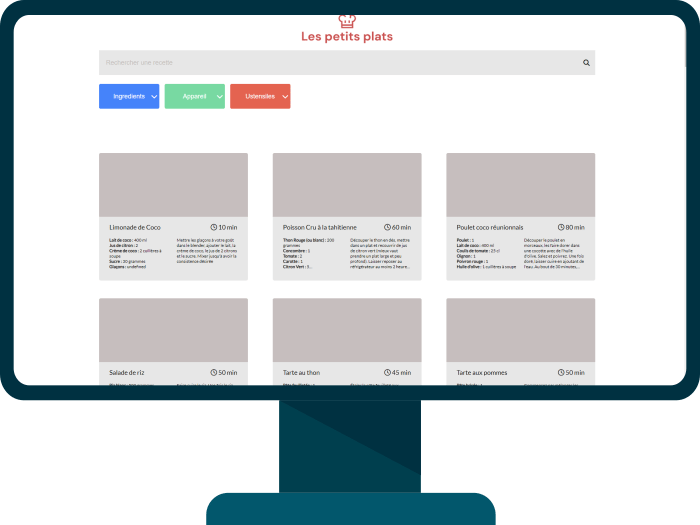
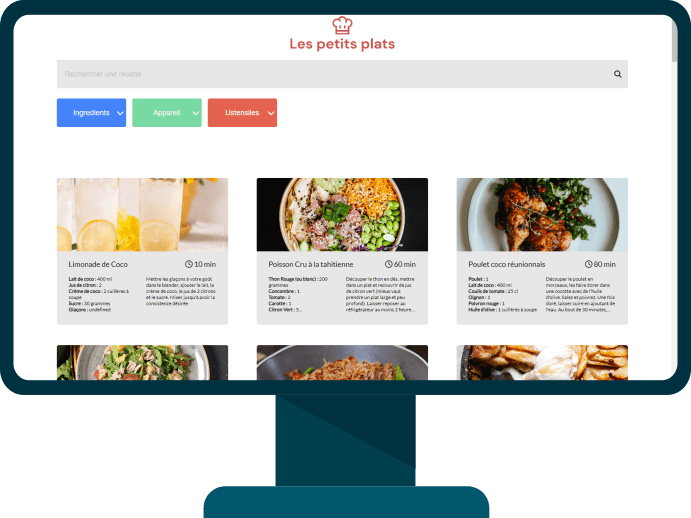
:lipstick: Change p9 and p7 image, non title font

diff --git a/src/pages/Project/Project.tsx b/src/pages/Project/Project.tsx
@@ -39,7 +39,7 @@ export const Project: React.FC = () => {
     return (
         <>
             <Link to="/" className={styles.back}>
-                Retour à l'accueil
+                - Retour à l'accueil -
             </Link>
             <main className={styles.projectWrapper}>
                 <section className={styles.presentation}>
@@ -86,10 +86,10 @@ export const Project: React.FC = () => {
                     </article>
                     <article>
                         <div className="section">Liens</div>
-                        <div className="content">
-                            {project.link && <a href={project.link}>site</a>}
+                        <div className="content" >
+                            {project.link && <a href={project.link} className={styles.link}>· site</a>}
                             <br />
-                            {project.repo && <a href={project.repo}>github</a>}
+                            {project.repo && <a href={project.repo} className={styles.link}>· github</a>}
                         </div>
                     </article>
                 </section>

diff --git a/src/pages/Project/Project.module.css b/src/pages/Project/Project.module.css
@@ -4,8 +4,7 @@
   display: inline-block;
   text-decoration: none;
   color: black;
-  font-style: italic;
-  font-family: "Libre Bodoni", serif;
+  font-family: "Raleway", sans-serif;
   font-size: 1.25rem;
   left: 50%;
   transform: translate(-50%, 0);
@@ -60,6 +59,14 @@
   font-size: 1.5rem;
 }
 .description article p {
+  font-family: "Raleway", sans-serif;
+  font-size: 1rem;
+  line-height: 1.5;
+}
+
+.link{
+  text-decoration: none;
+  color: black;
   font-family: "Raleway", sans-serif;
   font-size: 1rem;
   line-height: 1.5;

diff --git a/src/components/Card/Card.tsx b/src/components/Card/Card.tsx
@@ -69,8 +69,10 @@ const Card: React.FC<{ project: dataFormat }> = ({ project }) => {
 
             <img
                 src={`/assets/${illustration}-snap-min.png`}
+                width="500" height="278"
                 alt={name}
                 className={styles.image}
+
             />
 
             {/* <img src={illustration} alt={name} className={styles.image} /> */}

diff --git a/src/pages/Project/Project.module.scss b/src/pages/Project/Project.module.scss
@@ -5,8 +5,7 @@
     display: inline-block;
     text-decoration: none;
     color: black;
-    font-style: italic;
-    font-family: $font2;
+    font-family: $font1;
     font-size: 1.25rem;
     left: 50%;
     transform: translate(-50%, 0);

diff --git a/src/pages/HomePage/HomePage.module.scss b/src/pages/HomePage/HomePage.module.scss
@@ -27,6 +27,7 @@
         position: relative;
         display: inline-block;
         cursor: pointer;
+        font-family: $font1;
 
         &::after {
             content: '';

diff --git a/src/pages/HomePage/HomePage.module.css b/src/pages/HomePage/HomePage.module.css
@@ -23,6 +23,7 @@
   position: relative;
   display: inline-block;
   cursor: pointer;
+  font-family: "Raleway", sans-serif;
 }
 .filters label::after {
   content: "";
